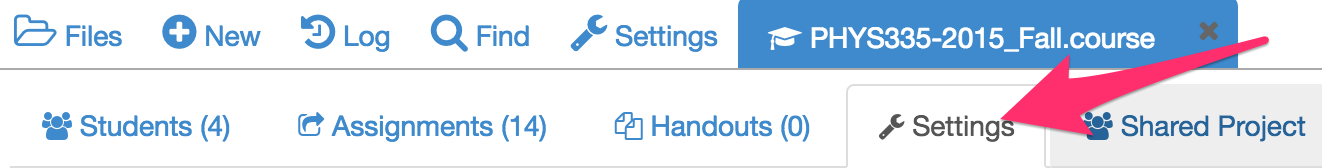
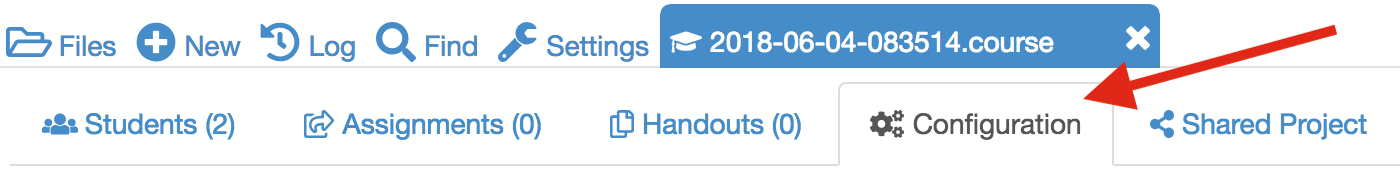
updating getting_started

diff --git a/getting_started/getting_started.md b/getting_started/getting_started.md
@@ -7,7 +7,7 @@ next:
     title: A Tour of SMC
 ---
 
-This section would help you familiarise with some of the Functions of CoCalc.
+This section introduce you to several functions of CoCalc.
 
 ## Lecturers - Sign up for an account
 
@@ -24,21 +24,21 @@ Once you've created your course in CoCalc, you just a add list of student email 
 
 ## Upgrades to student projects
 
-CoCalc accounts are free for you and your students and you can create as many projects as you desire.  These basic projects have access to all of CoCalc's functionalities with one exception: basic projects are not able to download or upload files to other sites on the internet - you can only upload and download between your computer and CoCalc.  Additionally, basic projects run on free servers which are shared with many other users and rebooted without a warning during the day.  You can purchase upgrades for projects that allow internet access and will move the projects to run on members-only servers.
+CoCalc accounts are free for you and your students and you can create as many projects as you desire.  These basic projects have access to all of CoCalc's functionality with one exception: basic projects are not able to download or upload files to other sites on the internet - you can only upload and download between your computer and CoCalc.  Additionally, basic projects run on free servers which are shared with many other users and rebooted without warning during the day.  You can purchase upgrades for projects that allow internet access and will move the projects to run on members-only servers.
 
 There are two ways students can receive upgrades for their projects:
-- Students can pay a \$9/semester fee
+- Students can pay a \$14/semester fee
 - You or someone at your school can purchase a [course package](https://cocalc.com/policies/pricing.html)
     - Course packages provide you with a number of member hosting upgrades and internet access upgrades that you can distribute to students.
     - Read more about how [how to pay for a course](https://github.com/sagemathinc/cocalc/wiki/prof-pay) in the CoCalc Wiki.
 
 **To distribute the project upgrades to the students:**
 - The person who purchases the course package needs to be a collaborator on the project that contains your course.
-- Open the `.course` file and go to the course  `Settings` tab (the wrench icon between the `Handouts` tab and the `Shared Projects` tab).  
+- Open the `.course` file and go to the course  `Configuration` tab (the gears icon between the `Handouts` tab and the `Shared Projects` tab).  
 
 ![](course_settings_tab.png)
 
-- Under *Upgrade all student projects (you pay)*,  select `Adjust quotas...`
+- Under *Upgrade all student projects (institute pays)*,  select `Adjust upgrades...`
 - Select the checkbox for **Member hosting** and **Internet access** and click `Submit changes` to distribute these two upgrades to each student's course project.
     - These upgrades only apply to the student course projects and not to any other projects students may have created.
 
